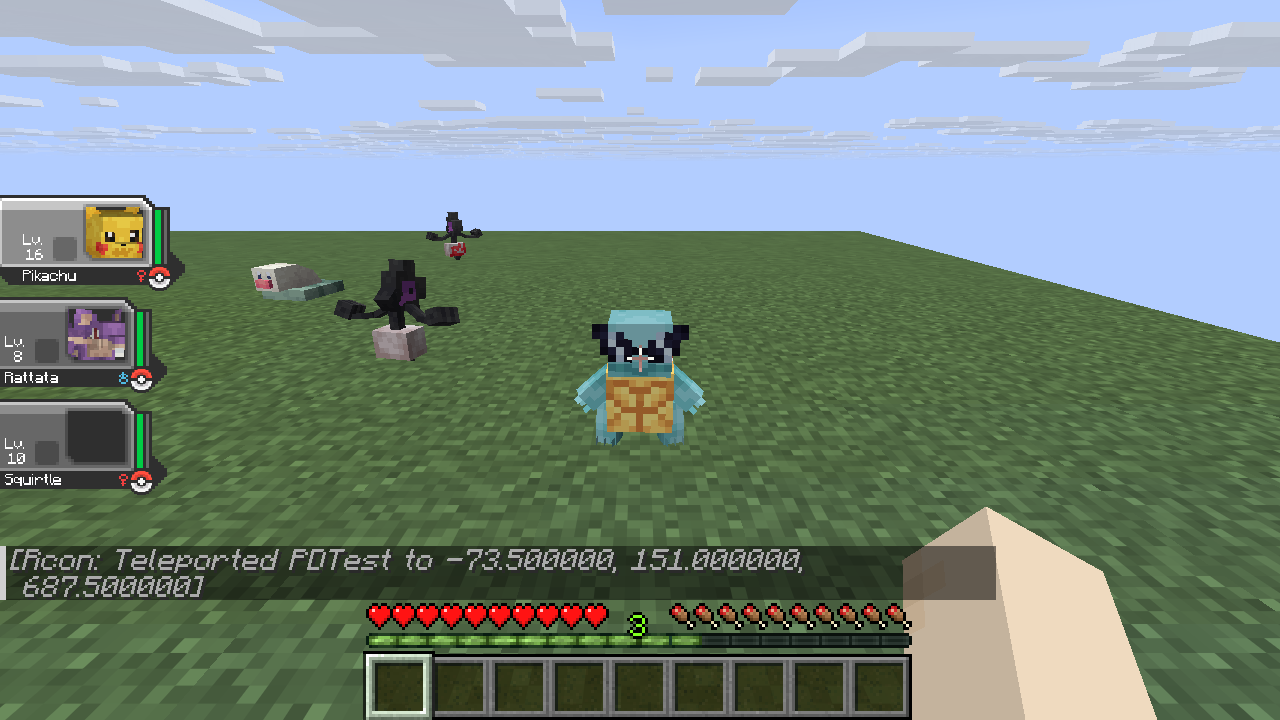
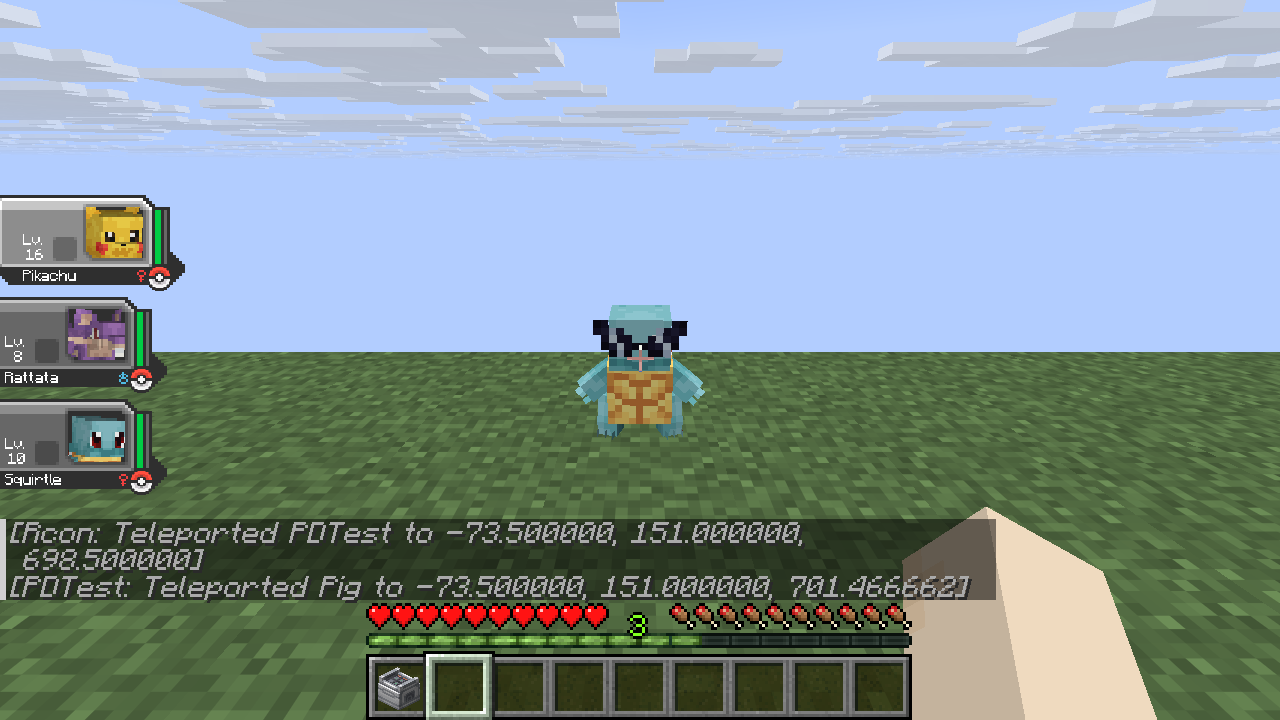
Structures: Cobblemon's ruins, habitats, shipwreck coves and fishing boats in the datapack (26.x formats, vanilla stand-ins); one NPC name tag; cosmetic looks found in the worktree build
Claude-Session: https://claude.ai/code/session_013qmVWfL2vttKu2B98Mqwws

diff --git a/tools/build_structures.py b/tools/build_structures.py
@@ -1,0 +1,200 @@
+"""Cobblemon's structures (ruins, shipwreck coves, fishing boats, habitats) for a vanilla server: its worldgen JSON
+and structure NBT go into the datapack, with Cobblemon's own blocks swapped for vanilla look-alikes (BLOCKS) and its
+own processor types (height_range, random_pooled_states) left out. The server generates them in new chunks.
+  python3 tools/build_structures.py RES_DIR OUT_DIR   ->  OUT_DIR/datapack/cobblemon-link/data/cobblemon/{structure,worldgen}
+ponytail: Cobblemon's village houses (added to vanilla villages by code) are left out; gilded chests become chests.
+"""
+import glob
+import gzip
+import io
+import json
+import os
+import re
+import struct
+import sys
+
+
+def vanilla(block):
+    """A Cobblemon block id -> its vanilla stand-in ("minecraft:air" when nothing fits)."""
+    b = block.split(':', 1)[1]
+    for pat, to in BLOCKS:
+        if re.fullmatch(pat, b):
+            return to(b) if callable(to) else to
+    return 'minecraft:air'
+
+
+BLOCKS = [
+    (r'.*(gilded|gimmighoul)_chest', 'minecraft:chest'),
+    (r'(stripped_)?(\w+_)?apricorn_(log|wood)', lambda b: f"minecraft:{'stripped_' if b.startswith('stripped') else ''}oak_{'wood' if b.endswith('wood') else 'log'}"),
+    (r'(stripped_)?saccharine_(log|wood)', lambda b: f"minecraft:{'stripped_' if b.startswith('stripped') else ''}birch_{b.rsplit('_', 1)[1]}"),
+    (r'(\w+_)?apricorn_leaves', 'minecraft:oak_leaves'),
+    (r'saccharine_leaves', 'minecraft:birch_leaves'),
+    (r'apricorn_(planks|slab|stairs|fence|fence_gate|door|trapdoor|button|pressure_plate)', lambda b: 'minecraft:oak_' + b.split('apricorn_')[1]),
+    (r'saccharine_(planks|slab|stairs|fence|fence_gate|door|trapdoor|button|pressure_plate)', lambda b: 'minecraft:birch_' + b.split('saccharine_')[1]),
+    (r'deepslate_\w+_ore', 'minecraft:deepslate'),
+    (r'\w+_ore', 'minecraft:stone'),
+    (r'\w+_berry', 'minecraft:sweet_berry_bush'),
+    (r'.*(mint|leek|root|herb|grains|vivichoke|galarica).*', 'minecraft:fern'),
+]
+
+RENAMED = {'minecraft:chain': 'minecraft:iron_chain'}  # vanilla blocks renamed since Cobblemon's 1.21.1
+C_FALLBACK = {'is_snowy_plains': ['minecraft:snowy_plains'], 'is_stony_shores': ['minecraft:stony_shore']}  # when c: is missing
+VANILLA_PROCESSORS = re.compile(r'^(minecraft:)?(rule|block_rot|block_ignore|gravity|capped|protected_blocks|lava_submerged_block|block_age|jigsaw_replacement|nop)$')
+
+
+def fix_json(x):
+    """Swaps Cobblemon block ids in a worldgen JSON tree; drops processors Minecraft doesn't have."""
+    if isinstance(x, dict):
+        if 'processor_type' in x and not VANILLA_PROCESSORS.match(x['processor_type']):
+            return None
+        if isinstance(x.get('Name'), str):  # a block state: 26.x writes {"id", "properties"} (or just the id)
+            name = vanilla(x['Name']) if x['Name'].startswith('cobblemon:') else RENAMED.get(x['Name'], x['Name'])
+            return {'id': name, 'properties': x['Properties']} if x.get('Properties') else name
+        out = {}
+        for k, v in x.items():
+            if k == 'block' and isinstance(v, str) and v.startswith('cobblemon:'):
+                v = vanilla(v)
+            elif k == 'block' and isinstance(v, str):
+                v = RENAMED.get(v, v)
+            else:
+                v = fix_json(v)
+            if v is not None:
+                out[k] = v
+        return out
+    if isinstance(x, list):
+        return [v for v in (fix_json(i) for i in x) if v is not None]
+    return x
+
+
+# ---- NBT (the structure files): read, swap palette blocks, write ----
+END, BYTE, SHORT, INT, LONG, FLOAT, DOUBLE, BYTES, STRING, LIST, COMPOUND, INTS, LONGS = range(13)
+FMT = {BYTE: '>b', SHORT: '>h', INT: '>i', LONG: '>q', FLOAT: '>f', DOUBLE: '>d'}
+
+
+def read(f, t):
+    if t in FMT:
+        return struct.unpack(FMT[t], f.read(struct.calcsize(FMT[t])))[0]
+    if t == STRING:
+        return f.read(struct.unpack('>H', f.read(2))[0]).decode('utf-8', 'surrogatepass')
+    if t in (BYTES, INTS, LONGS):
+        n = struct.unpack('>i', f.read(4))[0]
+        size = {BYTES: 'b', INTS: 'i', LONGS: 'q'}[t]
+        return (t, list(struct.unpack(f'>{n}{size}', f.read(n * struct.calcsize(size)))))
+    if t == LIST:
+        et, n = struct.unpack('>bi', f.read(5))
+        return (LIST, et, [read(f, et) for _ in range(n)])
+    if t == COMPOUND:
+        d = {}
+        while (ct := f.read(1)[0]) != END:
+            k = read(f, STRING)  # (not inline: Python reads the right-hand side first)
+            d[k] = (ct, read(f, ct))
+        return d
+
+
+def write(f, t, v):
+    if t in FMT:
+        f.write(struct.pack(FMT[t], v))
+    elif t == STRING:
+        b = v.encode('utf-8', 'surrogatepass')
+        f.write(struct.pack('>H', len(b)) + b)
+    elif t in (BYTES, INTS, LONGS):
+        size = {BYTES: 'b', INTS: 'i', LONGS: 'q'}[t]
+        f.write(struct.pack(f'>i{len(v[1])}{size}', len(v[1]), *v[1]))
+    elif t == LIST:
+        f.write(struct.pack('>bi', v[1], len(v[2])))
+        for i in v[2]:
+            write(f, v[1], i)
+    elif t == COMPOUND:
+        for k, (ct, cv) in v.items():
+            f.write(bytes([ct]))
+            write(f, STRING, k)
+            write(f, ct, cv)
+        f.write(bytes([END]))
+
+
+def fix_nbt(data):
+    """Structure NBT bytes -> the same with Cobblemon's palette blocks swapped and its entities and block entity data dropped."""
+    f = io.BytesIO(gzip.decompress(data))
+    assert f.read(1)[0] == COMPOUND
+    name = read(f, STRING)
+    root = read(f, COMPOUND)
+    swapped = set()
+    palettes = [root['palette'][1][2]] if 'palette' in root else [p[2] for p in root.get('palettes', (0, (0, 0, [])))[1][2]]
+    for pal in palettes:
+        for i, st in enumerate(pal):
+            if st['Name'][1] in RENAMED:
+                st['Name'] = (STRING, RENAMED[st['Name'][1]])
+            if st['Name'][1].startswith('cobblemon:'):
+                st['Name'] = (STRING, vanilla(st['Name'][1]))
+                swapped.add(i)
+    if 'blocks' in root:  # a swapped block keeps no block entity data (a gilded chest's isn't a chest's)
+        for b in root['blocks'][1][2]:
+            if b['state'][1] in swapped:
+                b.pop('nbt', None)
+    if 'entities' in root:
+        ents = root['entities'][1]
+        root['entities'] = (LIST, (LIST, ents[1], [e for e in ents[2] if not e.get('nbt', (0, {}))[1].get('id', (0, ''))[1].startswith('cobblemon:')]))
+    out = io.BytesIO()
+    out.write(bytes([COMPOUND]))
+    write(out, STRING, name)
+    write(out, COMPOUND, root)
+    return gzip.compress(out.getvalue(), mtime=0)
+
+
+def main(res, out):
+    src, dst = f'{res}/data/cobblemon', f'{out}/datapack/cobblemon-link/data/cobblemon'
+    n = 0
+    for p in glob.glob(f'{src}/structure/**/*.nbt', recursive=True):
+        rel = os.path.relpath(p, src)
+        if rel.startswith('structure/village'):
+            continue  # ponytail: villages need Cobblemon's code to join vanilla ones
+        os.makedirs(os.path.dirname(f'{dst}/{rel}'), exist_ok=True)
+        open(f'{dst}/{rel}', 'wb').write(fix_nbt(open(p, 'rb').read()))
+        n += 1
+    for kind in ('structure', 'structure_set', 'template_pool', 'processor_list'):
+        for p in glob.glob(f'{src}/worldgen/{kind}/**/*.json', recursive=True):
+            rel = os.path.relpath(p, src)
+            if 'village' in rel:
+                continue
+            os.makedirs(os.path.dirname(f'{dst}/{rel}'), exist_ok=True)
+            d = fix_json(json.load(open(p)))
+            if isinstance(d.get('biomes'), str) and d['biomes'].startswith('#c:'):  # a c: tag the server may not have
+                d['biomes'] = '#cobblemon:c_' + d['biomes'][3:].replace('/', '_')
+                tag = f"{dst}/tags/worldgen/biome/{d['biomes'][11:]}.json"
+                os.makedirs(os.path.dirname(tag), exist_ok=True)
+                json.dump({'values': [{'id': '#c:' + d['biomes'][13:], 'required': False}] +
+                           C_FALLBACK.get(d['biomes'][13:], [])}, open(tag, 'w'))
+            json.dump(d, open(f'{dst}/{rel}', 'w'), indent=1)
+    for p in glob.glob(f'{src}/tags/worldgen/structure/**/*.json', recursive=True):
+        rel = os.path.relpath(p, src)
+        os.makedirs(os.path.dirname(f'{dst}/{rel}'), exist_ok=True)
+        open(f'{dst}/{rel}', 'w').write(open(p).read())
+    print(n, 'structure pieces ->', dst)
+
+
+def demo():
+    assert vanilla('cobblemon:gilded_chest') == 'minecraft:chest'
+    assert vanilla('cobblemon:stripped_red_apricorn_log') == 'minecraft:stripped_oak_log'
+    assert vanilla('cobblemon:deepslate_moon_stone_ore') == 'minecraft:deepslate'
+    assert vanilla('cobblemon:healing_machine') == 'minecraft:air'
+    assert fix_json({'processors': [{'processor_type': 'cobblemon:height_range'}, {'processor_type': 'minecraft:rule', 'rules': [
+        {'output_state': {'Name': 'cobblemon:oran_berry'}}]}]}) == {'processors': [{'processor_type': 'minecraft:rule', 'rules': [
+            {'output_state': 'minecraft:sweet_berry_bush'}]}]}
+    assert fix_json({'Name': 'minecraft:oak_log', 'Properties': {'axis': 'y'}}) == {'id': 'minecraft:oak_log', 'properties': {'axis': 'y'}}
+    root = {'palette': (LIST, (LIST, COMPOUND, [{'Name': (STRING, 'cobblemon:gilded_chest')}, {'Name': (STRING, 'minecraft:stone')}])),
+            'blocks': (LIST, (LIST, COMPOUND, [{'state': (INT, 0), 'nbt': (COMPOUND, {})}, {'state': (INT, 1)}]))}
+    raw = io.BytesIO()
+    raw.write(bytes([COMPOUND]))
+    write(raw, STRING, '')
+    write(raw, COMPOUND, {k: v[1] if False else v for k, v in root.items()} | {})
+    fixed = io.BytesIO(gzip.decompress(fix_nbt(gzip.compress(raw.getvalue()))))
+    fixed.read(1)
+    read(fixed, STRING)
+    back = read(fixed, COMPOUND)
+    assert back['palette'][1][2][0]['Name'][1] == 'minecraft:chest' and 'nbt' not in back['blocks'][1][2][0]
+
+
+if __name__ == '__main__':
+    demo()
+    if len(sys.argv) == 3:
+        main(*sys.argv[1:])

diff --git a/plugin/src/main/java/io/github/kahngjoonkoh/cobblemonlink/Npcs.java b/plugin/src/main/java/io/github/kahngjoonkoh/cobblemonlink/Npcs.java
@@ -70,14 +70,15 @@ final class Npcs {
         at.getWorld().spawn(at, Mannequin.class, m -> {
             m.customName(Component.text(pl.lang.getOr("en_us", n.name, n.name)));
             m.setCustomNameVisible(true);
-            m.setDescription(n.pool.isEmpty() ? Component.empty() : Component.text("Trainer", NamedTextColor.GRAY));
+            m.setDescription(n.pool.isEmpty() ? null : Component.text("Trainer", NamedTextColor.GRAY)); // null: no second line under the name
             m.setInvulnerable(true);
             m.setImmovable(true);
             m.setPersistent(true);
             m.getPersistentDataContainer().set(key, PersistentDataType.STRING, id);
             m.getPersistentDataContainer().set(partyKey, PersistentDataType.STRING, Store.GSON.toJson(team));
         });
-        return pl.lang.getOr("en_us", n.name, n.name) + " is here with " + team.size() + " Pokémon.";
+        String name = pl.lang.getOr("en_us", n.name, n.name);
+        return n.pool.isEmpty() ? name + " is here." : name + " is here with " + team.size() + " Pokémon.";
     }
 
     /** Right-click: the NPC's dialogue, or straight into a battle when it has none. */

diff --git a/tools/build_data.py b/tools/build_data.py
@@ -259,7 +259,7 @@ def main(a):
     if len(a) != 2:
         sys.exit(__doc__)
     res, out = a
-    modeled = {os.path.basename(p)[:-8] for p in glob.glob(f'{out}/java/*.bbmodel')}
+    modeled = {os.path.basename(p)[:-8] for p in glob.glob(f'{out}/java/*.bbmodel') + glob.glob(f'{out}/cosmetic/java/*.bbmodel')}
     dex = species(res, modeled)
     pokedex_text(res, dex)
     feats = features(res, dex)

diff --git a/PARITY.md b/PARITY.md
@@ -93,7 +93,7 @@ Counts: see [the summary at the end](#summary).
 | Breeding, eggs | Not in 1.8.2 | — | ➖ | ➖ |
 | Size variation | ✓ | Cobblemon's Pokemon.scale: each Pokémon is born 0.95-1.05x, the young grow from 0.9x at level 1 to full size at level 9, alphas by Cobblemon's formula; wild, sent out, in battle and in the pasture, on both clients (the tracker's scale) ([alpha, adult, level 1](docs/evidence/m17-java-sizes.png)) | ✅ | ✅ |
 | Marks (1.7+) | 168 | Wild Pokémon roll Cobblemon's chance marks as the main games do (Rare, Personality, Uncommon, time of day, weather, Fishing, Revival); the title shows when it appears ("A wild Rattata the Peckish", [evidence](docs/evidence/m13-java-marked-wild.png)) and in the Summary ([Summary](docs/evidence/m13-java-marked-summary.png)); no ribbons, mark icons or choosing the shown mark | 🟡 | 🟡 |
-| Cosmetic items | 30 | Cobblemon's 30 cosmetic item sets on the 24 species that wear them (284 extra converted looks, base and shiny): Shift + right-click your sent-out Pokémon with the item to put it on (the old one comes back), right-click with an empty hand to take it off ([Squirtle in Black Glasses](docs/evidence/m20-java-cosmetic-glasses.png)); worn in the world and in battle, not on portraits | 🟡 | 🟡 |
+| Cosmetic items | 30 | Cobblemon's 30 cosmetic item sets on the 24 species that wear them (284 extra converted looks, base and shiny): Shift + right-click your sent-out Pokémon with the item to put it on (the old one comes back), right-click with an empty hand to take it off ([Squirtle in Black Glasses](docs/evidence/m20-java-cosmetic-glasses.png)); worn in the world and in battle; portraits keep the plain look | 🟡 | 🟡 |
 
 ## Interaction and world
 
@@ -101,7 +101,7 @@ Counts: see [the summary at the end](#summary).
 |---|---|---|---|---|
 | Trading | ✓ | `/trade <player>`, a chest of both parties: offer, ready, swap; trade evolutions on arrival; party only (no PC) | 🟡 | 🟡 |
 | Fishing (Poké Rods, bait, Lure) | 48 rods, 603 spawn entries | All 48 rods (cast model on Java); 600 fishing spawns with Lure level and rod type; 85% Pokémon per bite, lobbed in under 90 kg; Lure Ball; bait in the other hand (see Influences) | ✅ | ✅ |
-| NPCs and dialogues | ✓ | Cobblemon's dialogues run with a small MoLang interpreter (Molang.java: variables, ternaries, the queries its dialogues use): pages, options, page jumps, battles, healing and callback dialogues; `/spawnnpc sacchi` heals your party at a nearby Healing Machine; Java gets a vanilla dialog, Bedrock a form ([Java](docs/evidence/m21-java-dialogue-sacchi.png), [healed](docs/evidence/m21-java-dialogue-healed.png), [Bedrock](docs/evidence/m21-bedrock-dialogue-bot.log)); no faces, gibber sounds or timed pages | 🟡 | 🟡 |
+| NPCs and dialogues | ✓ | Cobblemon's dialogues run with a small MoLang interpreter (Molang.java: variables, ternaries, the queries its dialogues use): pages, options, page jumps, battles, healing and callback dialogues; `/spawnnpc sacchi` heals your party at a nearby Healing Machine; Java gets a vanilla dialog, Bedrock a form ([Sacchi](docs/evidence/m21-java-npc-sacchi.png), [Java](docs/evidence/m21-java-dialogue-sacchi.png), [healed](docs/evidence/m21-java-dialogue-healed.png), [Bedrock](docs/evidence/m21-bedrock-dialogue-bot.log)); no faces, gibber sounds or timed pages | 🟡 | 🟡 |
 | Pokémon interactions (feeding, items on Pokémon) | 167 | Items used from the hand on a party Pokémon: medicine, candies, vitamins, feathers, mints, stones, Ability Capsule / Patch, berries (Oran, Sitrus, status berries, Leppa, EV-lowering berries; [evidence](docs/evidence/m11-java-ev-berries.png)), held items; not on the Pokémon out in the world | 🟡 | 🟡 |
 | Cries and emotes | ✓ | Cobblemon's sounds on both clients (a Java pack, a Bedrock pack through Geyser): cries on battle start and send-out, wild / PvP battle music, Poké Ball hit / open / shake / capture / break, evolution, Healing Machine, PC; no emotes | 🟡 | 🟡 |
 | Fossils, Fossil Analyzer, Restoration Tank | 15 | The 15 fossils (from mining stone) revive in the Restoration Tank block after 12 minutes, one or a pair, and come out wild; the Analyzer is decoration | 🟡 | 🟡 |
@@ -114,7 +114,7 @@ Counts: see [the summary at the end](#summary).
 | Held items | ~80 | Given by right-click (the old one comes back); no taking without a swap | 🟡 | 🟡 |
 | Display Case, Gilded Chests, Pokédex items | ✓ | The Display Case block shows one item (right-click with it, empty hand to take it back; [Java](docs/evidence/m15-java-display-case.png), [Bedrock gets the item](docs/evidence/m15-bedrock-display-case-bot.log)); no Gilded Chests or Pokédex items | 🟡 | 🟡 |
 | Recipes (crafting, furnace, smithing, brewing stand) | ~700 | 347 of them (every one whose ingredients are items: balls, medicine, held items, mints, rods); mint leaves and leeks drop from grass | 🟡 | 🟡 |
-| Structures (ruins, shipwrecks, habitats, villages) | ✓ | — | ⬜ | ⬜ |
+| Structures (ruins, shipwrecks, habitats, villages) | ✓ | Cobblemon's 67 structures (29 ruins incl. Gimmighoul towers, 32 habitats, 3 shipwreck coves, 3 fishing boats; 1,165 pieces) in the datapack, generating in new chunks; its blocks swapped for vanilla look-alikes (Gilded Chests become chests, ores stone), its own processors left out ([Lush Gimmighoul tower](docs/evidence/m22-java-lush-gimmi-tower.png)); no village houses | 🟡 | 🟡 |
 
 ## Languages
 
@@ -145,8 +145,8 @@ Counts: see [the summary at the end](#summary).
 
 | | ✅ | 🟡 | ⬜ | ➖ |
 |---|---|---|---|---|
-| Java | 52 | 39 | 3 | 1 |
-| Bedrock | 52 | 39 | 3 | 1 |
+| Java | 52 | 40 | 2 | 1 |
+| Bedrock | 52 | 40 | 2 | 1 |
 
 ## Suggested order
 
